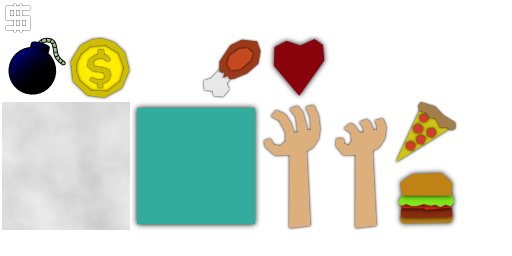
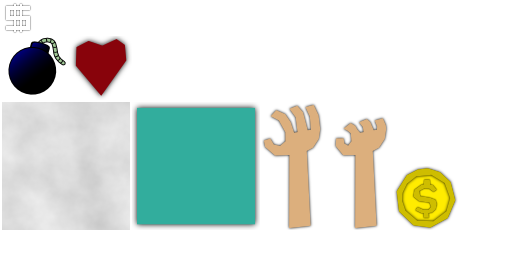
removed unused textures

diff --git a/DodgeGame/src/walnoot/dodgegame/Util.java b/DodgeGame/src/walnoot/dodgegame/Util.java
@@ -6,8 +6,6 @@ import com.badlogic.gdx.Gdx;
 import com.badlogic.gdx.graphics.Color;
 import com.badlogic.gdx.graphics.OrthographicCamera;
 import com.badlogic.gdx.graphics.g2d.NinePatch;
-import com.badlogic.gdx.graphics.g2d.ParticleEffect;
-import com.badlogic.gdx.graphics.g2d.Sprite;
 import com.badlogic.gdx.graphics.g2d.TextureAtlas;
 import com.badlogic.gdx.graphics.g2d.TextureRegion;
 import com.badlogic.gdx.math.Vector2;
@@ -34,18 +32,13 @@ public class Util{
 	public static TextureRegion HAND;
 	public static TextureRegion HAND_CLOSED;
 	public static TextureRegion HAND_SHORT;
-	public static TextureRegion DOT;
 	public static TextureRegion COIN;
 	public static TextureRegion FIELD;
 	public static TextureRegion FONT;
-	public static TextureRegion FOOD_ONE;
-	public static TextureRegion FOOD_TWO;
-	public static TextureRegion FOOD_THREE;
 	public static TextureRegion ICON_FALSE;
 	public static TextureRegion ICON_TRUE;
 	public static TextureRegion BOMB;
 	public static TextureRegion BACKGROUND;
-	public static TextureRegion SHINE;
 	public static TextureRegion PAUSE;
 	public static TextureRegion RESUME;
 	public static TextureRegion SLIDER;
@@ -56,33 +49,18 @@ public class Util{
 	public static NinePatch PATCH_SLIDER;
 	public static NinePatch PATCH_SLIDER_BIG;
 	
-	public static ParticleEffect SHINE_EFFECT;
-	
-	private static ParticleEffect getShineEffect(){
-		ParticleEffect effect = new ParticleEffect();
-		effect.loadEmitters(Gdx.files.internal("effects/shine.dat"));
-		effect.getEmitters().get(0).setSprite(new Sprite(Util.SHINE));
-		
-		return effect;
-	}
-	
 	public static void loadRegions(){
 		HEART = ATLAS.findRegion("Gameplay/heart");
 		HAND = ATLAS.findRegion("Gameplay/hand");
 		HAND_CLOSED = ATLAS.findRegion("Gameplay/hand_closed");
 		HAND_SHORT = HAND.split(HAND.getRegionWidth(), HAND.getRegionHeight() / 2)[0][0];
-		DOT = ATLAS.findRegion("Gameplay/dot");
 		COIN = ATLAS.findRegion("Gameplay/coin");
 		FIELD = ATLAS.findRegion("Gameplay/field");
 		FONT = ATLAS.findRegion("UI/font");
-		FOOD_ONE = ATLAS.findRegion("Gameplay/drumstick");
-		FOOD_TWO = ATLAS.findRegion("Gameplay/burger");
-		FOOD_THREE = ATLAS.findRegion("Gameplay/pizza");
 		ICON_FALSE = ATLAS.findRegion("UI/icon_false");
 		ICON_TRUE = ATLAS.findRegion("UI/icon_true");
 		BOMB = ATLAS.findRegion("Gameplay/bone");
 		BACKGROUND = ATLAS.findRegion("Gameplay/background");
-		SHINE = ATLAS.findRegion("Gameplay/shine");
 		PAUSE = ATLAS.findRegion("UI/pause");
 		RESUME = ATLAS.findRegion("UI/resume");
 		SLIDER = ATLAS.findRegion("UI/slider");
@@ -92,8 +70,6 @@ public class Util{
 		
 		PATCH_SLIDER = getNinePatch(SLIDER);
 		PATCH_SLIDER_BIG = getNinePatch(SLIDER_BIG);
-		
-		SHINE_EFFECT = getShineEffect();
 	}
 	
 	public static void setSkin(){
